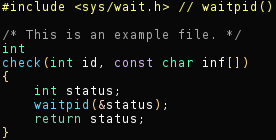
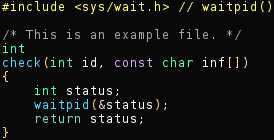
Update README of zs-hi
* A bit better wording.
* Don't single out `zs-diff` tool.
* Crop screenshot a bit.

diff --git a/tools/hi/README.md b/tools/hi/README.md
@@ -5,10 +5,9 @@
 ## Description ##
 
 `zs-hi` is a primitive code highlighter for terminal.  The main purpose is
-testing and debugging of code parsing for `zs-diff`, but it can also be used on
-its own.
+testing and debugging of code parsing, but it can also be used on its own.
 
-The only hard-coded color scheme is for xterm-256color palette.
+The only hard-coded color scheme at the moment is for xterm-256color palette.
 
 ## Checking if code parses correctly ##
 
